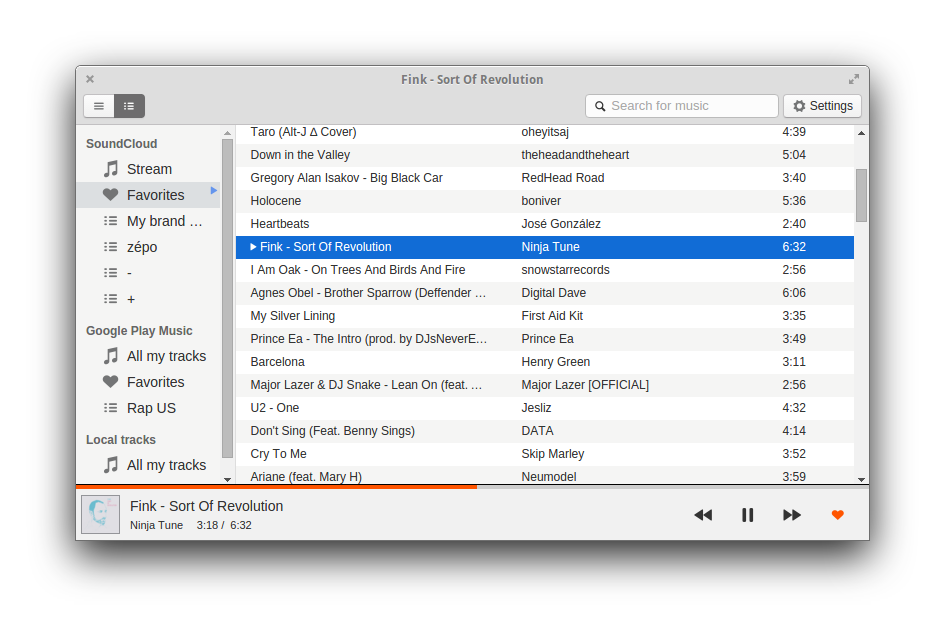
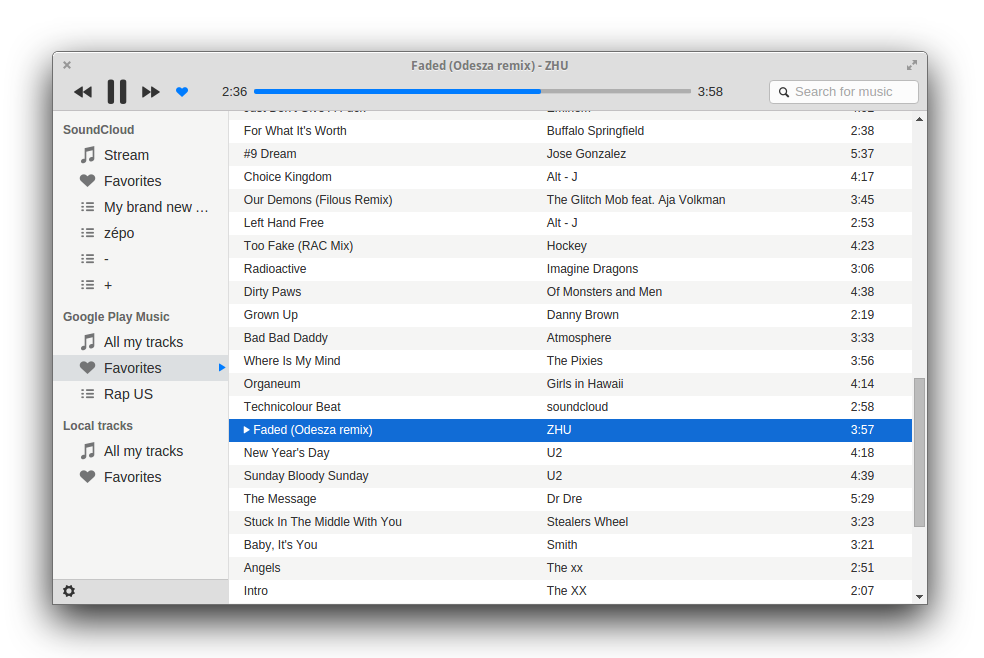
:cyclone: Player now on top bar, way better ;)

diff --git a/app/index.html b/app/index.html
@@ -13,27 +13,38 @@
     <div class="window" ng-controller="ListController" ng-cloak>
     <header class="toolbar toolbar-header">
       <div class="toolbar-actions">
-        <div class="btn-group">
-          <button class="btn btn-default" ng-click="sidebar=false" ng-class="{active: !sidebar}">
-            <span class="icon icon-menu"></span>
-          </button>
-          <button class="btn btn-default" ng-click="sidebar=true" ng-class="{active: sidebar}">
-            <span class="icon icon-list"></span>
-          </button>
+
+        <!-- now player -->
+        <div class="player_controls">
+            <span class="player_prevSong" ng-click="playTrack(getPrevTrack(playing.source, playing.id))">
+                <i class="icon icon-fast-backward thin"></i>
+            </span>
+            <span class="player_play-pause" ng-click="playPause()">
+                <i class="icon" ng-class="{'icon-play': !isSongPlaying, 'icon-pause': isSongPlaying}"></i>
+            </span>
+            <span class="player_nextSong" ng-click="playTrack(getNextTrack(playing.source, playing.id))">
+                <i class="icon icon-fast-forward thin"></i>
+            </span>
+            <span class="player_favorite" ng-class="{'active': playing.favorited}" ng-click="FavPlaying()">
+                <i class="icon icon-heart" ></i>
+            </span>
         </div>
 
+        <div class="player_progress">
+          <span id="player-timecurrent" class="hideUnder800">0:00</span>
+          <span class="player_progress_bar" id="player-progress"></span>
+          <span id="player-duration" class="hideUnder800">0:00</span>
+        </div>
 
-        <button class="hideUnder400 btn btn-default pull-right" ng-hide="activeService=='settings'" ng-click="activeService='settings'">
-          <span class="icon icon-cog"></span>
-          &nbsp;Settings
-        </button>
+        <audio id="player" controls src="" class="player_currentSong"></audio>
+        <!-- now player / end -->
 
         <button class="btn btn-default pull-right" ng-show="activeService=='settings'" ng-click="saveSettings()">
           <span class="icon icon-check"></span>
-          &nbsp;Save
+          &nbsp;OK
         </button>
 
-        <div class="form-group searchBar pull-right">
+        <div class="form-group searchBar pull-right" ng-hide="activeService=='settings'" ng-click="activeService='settings'">
           <span class="icon icon-search"></span>
           <input type="search" ng-change="setSearchActiveTab()" ng-model="search" class="form-control" placeholder="Search for music" id="search" ng-model-options="{debounce: 500}">
         </div>
@@ -91,6 +102,13 @@
                   Favorites <span ng-show="playing.source == 'localFavs'" class="icon icon-play playing"></span>
                 </span>
               </div>
+
+              <div class="footer-nav">
+                <span class="icon icon-cog" ng-click="activeService='settings'" ng-class="{'active':activeService==='settings'}"></span>
+                <span class="icon icon-shuffle"></span>
+                <span class="icon icon-loop"></span>
+              </div>
+
             </nav>
           </div>
 
@@ -214,43 +232,8 @@
         <div class="full_screen" ng-if="errorConnection">
           <p>Please check you internet connection</p>
         </div>
-
-        <!-- now player -->
-        <div class="player">
-            <div class="player_inner">
-                <div class="player_progress">
-                    <span class="player_progress_bar" id="player-progress"></span>
-                </div>
-                <div class="player_details">
-                    <img id="playerThumb" src="img/blank_artwork.png" onerror="if (this.src != 'img/blank_artwork.png') this.src = 'img/blank_artwork.png';" alt="" class="player_thumb">
-
-                    <h2 id="playerTitle" class="player_title hideUnder400"></h2>
-                    <h4 id="playerUser" class="player_user hideUnder400"></h4>
-
-                    <div class="player_time hideUnder400">
-                        <span class="player_timeCurrent" id="player-timecurrent"></span>
-                        <span class="player_duration" id="player-duration"></span>
-                    </div>
-                </div>
-                <div class="player_controls">
-                    <span class="player_prevSong" ng-click="playTrack(getPrevTrack(playing.source, playing.id))">
-                        <i class="icon icon-fast-backward thin"></i>
-                    </span>
-                    <span class="player_play-pause" ng-click="playPause()">
-                        <i class="icon" ng-class="{'icon-play': !isSongPlaying, 'icon-pause': isSongPlaying}"></i>
-                    </span>
-                    <span class="player_nextSong" ng-click="playTrack(getNextTrack(playing.source, playing.id))">
-                        <i class="icon icon-fast-forward thin"></i>
-                    </span>
-                    <span class="player_favorite" ng-class="{'active': playing.favorited}" ng-click="FavPlaying()">
-                        <i class="icon icon-heart" ></i>
-                    </span>
-                </div>
-                <audio id="player" controls src="" class="player_currentSong"></audio>
-            </div>
-        </div>
-        <!-- now player / end -->
       </div>
+
     </div>
   </body>
   <script> window.$ = window.jQuery = require('jquery'); </script>

diff --git a/app/css/app.css b/app/css/app.css
@@ -24,9 +24,10 @@
 }
 
 .icon.icon-play.playing {
-  color: cornflowerblue;
+  color: #007CFF;
   position: absolute;
   margin-right: -4px;
+  padding-top: 4px;
   right: 0;
   font-size: 13px;
 }
@@ -49,7 +50,7 @@ td {
 }
 
 .pane-group {
-  margin-bottom: 53px; /** Because the AUDIO PLAYER is taking 40px ***/
+  /** margin-bottom: 53px; /** Because the AUDIO PLAYER is taking 40px ***/
   overflow-x: hidden; /* Resolving for bug when resizing X axis (little white space for scrollbar)*/
   display: block;
 }
@@ -70,6 +71,23 @@ td {
 
 .pane {
   height: 100%;
+}
+
+.footer-nav {
+  position: absolute;
+  bottom: 0;
+  height: 25px;
+  width: 100%;
+  border-top: solid 1px rgba(0, 0, 0, 0.11);
+  background-color: #DEDEDE;
+}
+
+.footer-nav .icon {
+  padding: 0px 0 0 10px;
+}
+
+.footer-nav .icon.active {
+  color: #007CFF;
 }
 
 /*******************************/
@@ -211,7 +229,7 @@ td {
 .searchBar {
   position: relative;
   display: inline-block;
-  margin-bottom: 0px;
+  margin-bottom: 0px; margin-right: 5px;
   vertical-align: middle;
   -webkit-app-region: no-drag;
 }
@@ -223,6 +241,7 @@ td {
 }
 
 .searchBar .form-control {
+  width: 150px;
   min-height: inherit;
   height: 24px;
   background-color: #fcfcfc;
@@ -239,19 +258,6 @@ td {
 /* ==========================================================================
 @NowPlaying
 ========================================================================== */
-
-.player_inner {
-  position: fixed;
-  bottom: 0;
-  left: 0;
-  width: 100%;
-  background: #f1f1f1;
-  border-top: 1px solid #000;
-  display: flex;
-  flex-direction: row;
-  z-index: 1;
-  padding-top: 5px;
-}
 
 .player_thumb {
   border: 1px solid #949599;
@@ -293,9 +299,11 @@ td {
 }
 
 .player_controls {
+  top: -12px;
+  position: absolute;
   padding: 0 10px;
   overflow: hidden;
-  width: 200px;
+  width: 150px;
   display: flex;
   align-items: center;
 }
@@ -316,24 +324,35 @@ td {
   margin-left: 25px;
 }
 
-.player_timeCurrent:not(:empty)::after {
-  content: '/';
-  margin: 0 3px;
+#player-timecurrent {
+  position: absolute;
+  left: -32px;
+  top: -7px;
 }
+
+#player-duration {
+  position: absolute;
+  right: -32px;
+  top: -7px;
+}
+
 
 .player_progress {
   position: absolute;
-  top: -20px; left: 0;
-  display: block;
-  width: 100%; height: 4px;
-  padding: 20px 0 10px;
-  overflow: hidden;
+  margin: auto;
+  border-radius: 20px;
+  top: 13px;
+  width: 50%;
+  height: 5px;
   cursor: pointer;
   box-sizing: content-box;
+  background: #CCCCCC;
+  left: 50%;
+  transform: translateX(-54%);
 }
 
 .player_progress:hover .player_progress_bar::before {
-  background: rgba(255, 255, 255, 0.2);
+  background: rgba(255, 255, 255, 0.5);
 }
 
 .player_progress:hover .player_progress_bar::after {
@@ -342,8 +361,10 @@ td {
 
 .player_progress .player_progress_bar {
   display: block;
-  width: 0; height: 4px;
-  background: #f50;
+  width: 0;
+  height: 5px;
+  border-radius: 10px;
+  background: rgb(0, 124, 255);
 }
 
 .player_progress .player_progress_bar::before {
@@ -363,7 +384,8 @@ td {
   display: block;
   float: right;
   height: 12px; width: 12px;
-  background: #ff7a00;
+  /*background: #ff7a00;*/
+  background: white;
   border-radius: 50%;
   box-shadow: 0 0 2px 0 #000;
   transform: scale(0);
@@ -371,6 +393,7 @@ td {
 }
 
 .player_controls span {
+  top: -12px;
   display: block;
   overflow: hidden;
   text-align: center;
@@ -392,9 +415,13 @@ td {
 .player_shuffle.active .icon,
 .player_queueList.active,
 .player_queueList.active .icon {
-  color: #f50;
+  color: #007CFF;
 }
 
+.player_play-pause .icon {
+  margin-top: -10px;
+  font-size: 35px;
+}
 
 
 /**** SPINNER **************************/
@@ -467,9 +494,15 @@ td {
 
 /** END OF SPINNER */
 
-
 @media screen and (max-width: 400px){
   .hideUnder400  {
     display: none;
   }
 }
+
+@media screen and (max-width: 800px){
+  .hideUnder800  {
+    display: none;
+  }
+}
+
